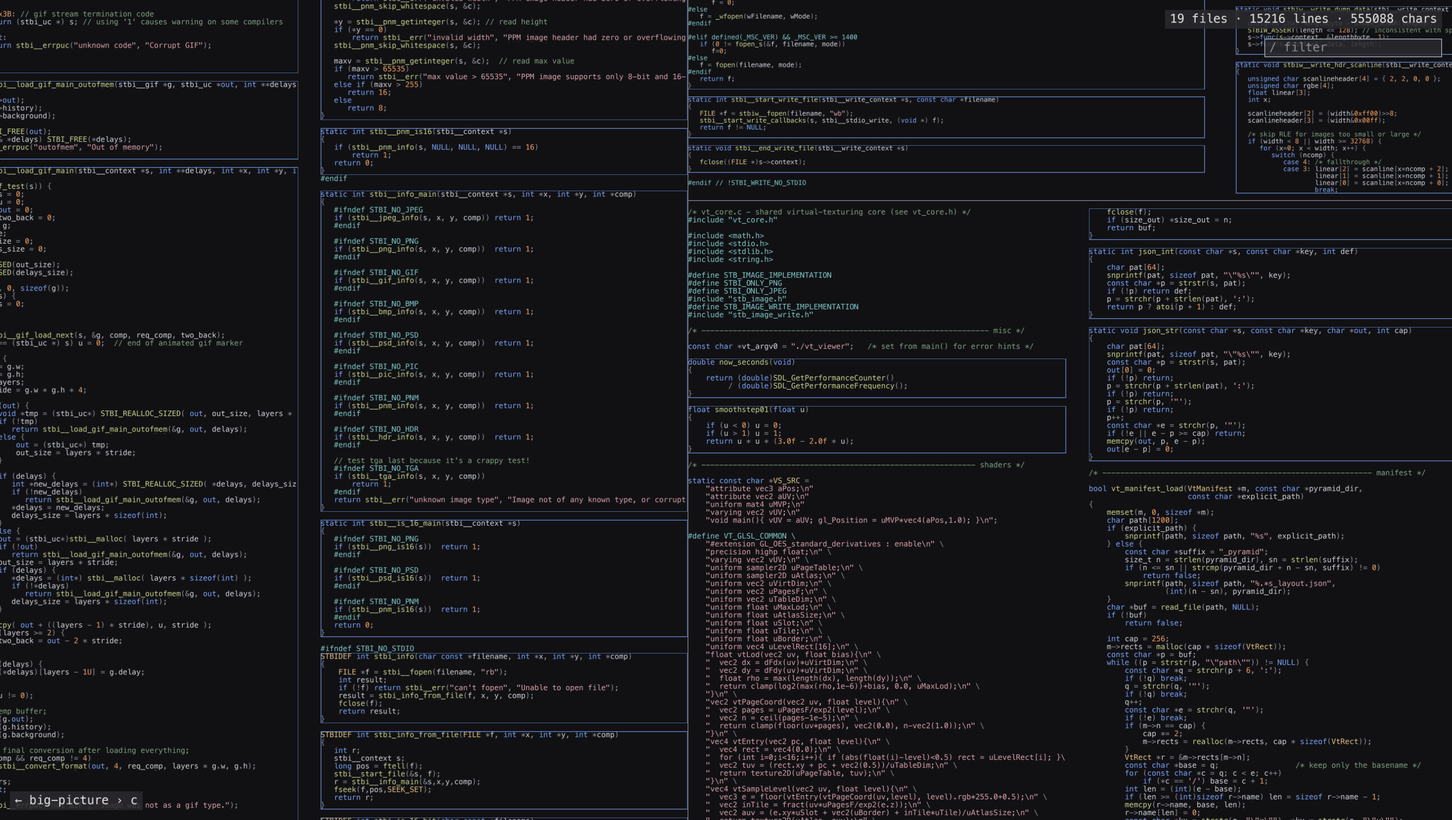
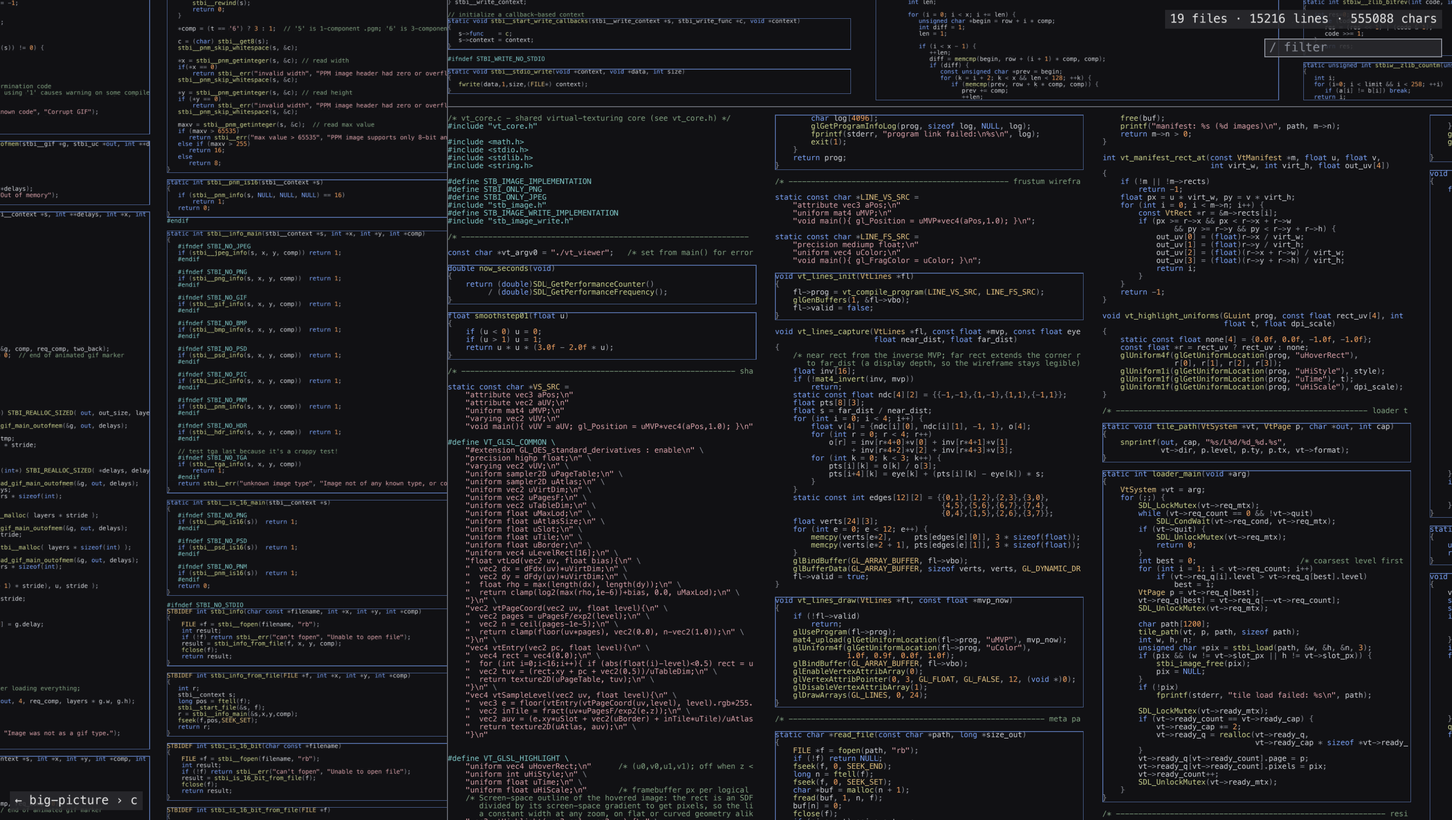
Phase 0: kind bands, code-only references, tokens as the area metric
The ladder gains its missing representation: below 3 px per line every item rectangle is drawn as a filled band in its item kind colour under the bars, so the fitted map shows the colour regions of the video and nothing flips at the 1 px cut; from 3 px the outlines take over (fills far, outlines near). Filter hits inside comments and strings are no longer references: Window on makepad-draw drops from 147 to 129. The treemap's default area metric is tokens, runs of one non-space kind restarted at each line, matching the video's toolbar. Shots regenerated; PARITY.md rows 8, 19 and 25 updated.

diff --git a/atlas_viewer.py b/atlas_viewer.py
@@ -224,15 +224,18 @@ def run_search(atlas, word):
         time.sleep(0)
     off = np.array(starts, np.int64)
     line = np.searchsorted(line_off_nl, off, side="right") - 1
-    file = atlas["line_file"][line].astype(np.int64)
     col = off - line_off_nl[line]
     chars = atlas["chars"]
     line_off = atlas["line_off"].astype(np.int64)
-    is_def = np.zeros(len(off), bool)
-    kinds = [""] * len(off)
+    # a mention inside a comment or a string is not a reference
+    code = ~np.isin(atlas["kinds"][line_off[line] + col], (4, 5))
+    line, col = line[code], col[code]
+    file = atlas["line_file"][line].astype(np.int64)
+    is_def = np.zeros(len(line), bool)
+    kinds = [""] * len(line)
     files = atlas["index"]["files"]
     regs = {}
-    for i in range(len(off)):
+    for i in range(len(line)):
         lang = files[file[i]]["lang"]
         r = regs.get(lang)
         if r is None:
@@ -1110,6 +1113,27 @@ class Viewer:
         inst[:, 8] = alpha
         return inst, n * cw
 
+    def band_instances(self):
+        """The kind bands: below 3 px per line the item rectangles of visible
+        files are filled bands in the item kind colour, under the sampled
+        bars and the line bars alike so nothing flips at the 1 px cut; from
+        3 px the outlines take over (fills far, outlines near)."""
+        a = self.a
+        m = (self.visible & (self.rung <= 1))[self.item_rect_file]
+        if not m.any():
+            return np.zeros((0, 10), np.float32)
+        rects = a["item_rect"][m]
+        kinds = a["item_kind"][a["item_rect_item"][m]]
+        inst = np.zeros((len(rects), 10), np.float32)
+        inst[:, :4] = rects
+        for k, c in ITEM_COLORS.items():
+            inst[kinds == k, 4:7] = c
+        inst[(kinds < 1) | (kinds > 5), 4:7] = ITEM_COLORS[5]
+        inst[:, 7] = 1.0
+        inst[:, 8] = 0.0
+        inst[:, 9] = 0.18
+        return inst
+
     def item_instances(self):
         a = self.a
         m = (self.visible & (self.rung >= 2))[self.item_rect_file]
@@ -1321,6 +1345,7 @@ class Viewer:
         glUseProgram(self.prog["file"])
         glUniform1i(self.uniform("file", "uRingOnly"), 0)
         self.draw_instanced("file", self.n_files)
+        self.draw_rects(self.band_instances())      # kind bands under the bars
         self.draw_visible_lines()
         self.draw_rects(self.item_instances())
         self.draw_rects(self.hit_instances())

diff --git a/atlas_layout.py b/atlas_layout.py
@@ -144,6 +144,20 @@ def file_columns(w, h, n, target, char_aspect):
     return chosen
 
 
+def file_tokens(kinds, line_off, file_line0):
+    """Tokens per file: runs of one non-space kind, restarted at every line
+    (lines are stored with no separator). The video's default area metric."""
+    kinds = kinds.astype(np.int16)
+    prev = np.concatenate(([0], kinds[:-1]))
+    start = (kinds != 0) & (prev != kinds)
+    lo = line_off[:-1].astype(np.int64)
+    lo = lo[lo < len(kinds)]
+    start[lo] |= kinds[lo] != 0
+    cum = np.concatenate(([0], np.cumsum(start)))
+    fo = line_off[file_line0].astype(np.int64)      # first byte of each file
+    return np.diff(cum[fo]).astype(np.float64)
+
+
 def layout_files(file_rect, file_line0, line_len, char_aspect):
     n_files = len(file_rect)
     pitch = np.zeros(n_files)
@@ -297,8 +311,8 @@ def main():
                                  formatter_class=argparse.RawDescriptionHelpFormatter)
     ap.add_argument("atlas", metavar="ATLAS_DIR", help="data/<name>_atlas with index.npz + index.json")
     ap.add_argument("--aspect", default="16:9", help="world aspect W:H (default 16:9)")
-    ap.add_argument("--metric", choices=["chars", "lines", "bytes"], default="chars",
-                    help="file size metric for the treemap (default chars)")
+    ap.add_argument("--metric", choices=["tokens", "chars", "lines", "bytes"], default="tokens",
+                    help="file size metric for the treemap (default tokens)")
     ap.add_argument("--char-aspect", type=float, default=None,
                     help="character advance / line pitch of the font (default: atlas_font.py's "
                          "metric for its default font, Menlo 0.569; 0.6 if that font is missing)")
@@ -321,7 +335,9 @@ def main():
 
     aspect = parse_aspect(args.aspect)
     world = np.array([WORLD_W, WORLD_W / aspect])
-    if args.metric == "chars":
+    if args.metric == "tokens":
+        metric = file_tokens(z["kinds"], z["line_off"], file_line0)
+    elif args.metric == "chars":
         metric = z["file_chars"].astype(np.float64)
     elif args.metric == "lines":
         metric = np.diff(file_line0).astype(np.float64)

diff --git a/docs/DESIGN.md b/docs/DESIGN.md
@@ -104,7 +104,7 @@ Use `--workers` (default half the cores) with a process pool over files; the tok
 
 World coordinates: the root rectangle is [0, W] by [0, H] with W = 1600 and H = 1600 / aspect, y down. Everything is float64 on the CPU and float32 on the GPU (see Precision).
 
-Squarified treemap (Bruls, Huizing, van Wijk) over the directory tree. A directory's weight is the sum of its files' metric plus its children's weights. Inside a directory rectangle, first inset by the directory padding, then lay out the children (files and subdirectories together, sorted by weight descending) with squarify. Padding is a fraction of the parent's shorter side: 1.5 percent, clamped to [0.05, 4] world units, and it is the same on all four sides. The padding region is what the viewer draws as the directory border, so its width in pixels grows with zoom exactly as the video shows.
+Squarified treemap (Bruls, Huizing, van Wijk) over the directory tree. A directory's weight is the sum of its files' metric plus its children's weights. The default metric is tokens (runs of one non-space kind, restarted at each line), as in the video's toolbar; chars, lines and bytes are the alternatives. Inside a directory rectangle, first inset by the directory padding, then lay out the children (files and subdirectories together, sorted by weight descending) with squarify. Padding is a fraction of the parent's shorter side: 1.5 percent, clamped to [0.05, 4] world units, and it is the same on all four sides. The padding region is what the viewer draws as the directory border, so its width in pixels grows with zoom exactly as the video shows.
 
 Files: a file's rectangle is split into k equal-width columns with a gap of 6 percent of the column width between columns. Each column holds `rows = ceil(n_lines / k)` lines at pitch `p = h_inner / rows` where h_inner is the rectangle height less a top and bottom margin of one pitch (so the first line does not touch the border). Choose k from 1 upward: the column's character capacity is `cap = floor(col_w / (p * A))` where A is the character advance divided by the line pitch of the font (about 0.6 for Menlo; take it from atlas_font.py's metrics, default 0.6). Pick the smallest k such that `cap >= target`, where `target = clamp(p90 of the file's line lengths, 24, 100)`, or the k that maximises cap if no k reaches the target; k is capped at 64. Lines longer than cap are clipped, not wrapped (wrapping is a later step; note it in the README). A file with zero lines gets k = 1, rows = 1.
 
@@ -189,8 +189,8 @@ In numpy over files: `ppl = file_pitch * zoom` (device pixels per line); `rung =
 
 | rung | ppl | what is drawn |
 |---|---|---|
-| 0 sampled bars | under 1 | the file background, and every step-th line (file-relative index `j` with `j mod step == 0`) as a grey bar exactly 1 device pixel tall from indent to len, so the density stays about one bar per pixel row: the circuit-board texture of the whole map |
-| 1 line bars | 1 to 3 | one grey bar per line from indent to len |
+| 0 sampled bars | under 1 | kind bands (below), and every step-th line (file-relative index `j` with `j mod step == 0`) as a grey bar exactly 1 device pixel tall from indent to len, so the density stays about one bar per pixel row: the circuit-board texture of the whole map |
+| 1 line bars | 1 to 3 | kind bands, and one grey bar per line from indent to len |
 | 2 tokens | 3 to 6 | one block per character in the kind colour, item outlines |
 | 3 text | 6 and up | glyphs from the atlas in the kind colour, item outlines | Compute the hovered file from the cursor (point in file rect; use a coarse uniform grid over the world built at start to keep this O(1)), and the hovered line and column from the file's layout (column c from x, row r from y, line j = c * rows + r, col from x within the column divided by p * A). Compute the crumb trail: the deepest directory whose rectangle contains the view centre and is at least 64 device pixels on its shorter side.
 
@@ -199,14 +199,14 @@ In numpy over files: `ppl = file_pitch * zoom` (device pixels per line); `rung =
 1. Directories: for every directory with depth ≥ 1 whose rectangle is visible, draw the outer rectangle filled with the hue at 55 percent alpha over the darker inner fill, so the padding ring reads as a coloured band; below 1 device pixel of padding, still draw a 1 pixel line in the hue. Use an instanced rectangle shader with the ring computed in the fragment shader from the world-space padding, with `fwidth` to guarantee the 1 pixel minimum.
 2. Files: instanced over all files, vertex shader culls invisible ones (degenerate quad). Fill: every rung draws the file background `#111114`; the hue lives only in the directory bands, so a file's colour never flips at a rung cut. Border: 1 device pixel in a light grey (`#8a8f9a` at 70 percent); hovered file: fill `#dfe3ec` at 55 percent over everything (the light bar in the overview); hit file: border becomes 2 pixels of `#e8d44d`; current result: 3 pixels `#e8d44d`; dimmed: fill darkened 50 percent.
 3. Lines: one instanced draw over all lines. Vertex shader: fetch line and file texels; if the line is outside the view, or the file is at rung 0 and the line's file-relative index is not a multiple of the file's step, emit a degenerate quad. Quad from (x, y) with width `len * p * A` (clipped to `cap * p * A`) and height p, or exactly 1 device pixel at rung 0. Pass to the fragment shader: the line's byte offset, indent, len, cap, p, the rung, and the unit uv. Fragment shader: `col = floor(uv.x * len_clipped)`; rungs 0 and 1: discard if col < indent, else output `#a4a8b0` at an alpha that ramps with pixels per line, `clamp(0.5 + 0.15 ppl, 0.55, 0.8)`, so only the sampling changes at the 1 px cut (rung 0 the sampled bar, rung 1 a grey bar from indent to len); rung 2: fetch the kind at byte_off + col, discard if space, output the kind colour (a block per character, which gives the token segments); rung 3: fetch the char and kind, sample the glyph atlas cell for the char at the in-cell uv, multiply the kind colour by the coverage. Kind colours (RGB): space none, ident `#cfd2d8`, keyword `#7aa2f7`, type `#e0c080`, string `#d7a0a8`, comment `#7f9f7f`, number `#f0a060`, punct `#8c909a`, macro `#7fc8c8`, call `#c8d08c`. When the file is dimmed, multiply by 0.45.
-4. Item outlines: for files at rung 2 or 3 that are visible, draw their item rectangles as 1.5 device pixel outlines in the item kind colour: function `#7aa2f7` at 60 percent, struct `#e0c080`, enum `#d7a0a8`, impl `#5fb7b7`, other `#8c909a`. Nested outlines are fine. Build the instance list on the CPU from the visible files each frame (numpy boolean index over item_rect_item's file).
+4. Kind bands and item outlines: for visible files at rung 0 or 1, every item rectangle is drawn before the lines as a filled band in its item kind colour at 18 percent alpha (the ladder's kind-bands representation: fills far, outlines near); for files at rung 2 or 3 that are visible, draw their item rectangles as 1.5 device pixel outlines in the item kind colour: function `#7aa2f7` at 60 percent, struct `#e0c080`, enum `#d7a0a8`, impl `#5fb7b7`, other `#8c909a`. Nested outlines are fine. Build the instance list on the CPU from the visible files each frame (numpy boolean index over item_rect_item's file).
 5. Hits: while a filter is active, every hit in a visible file at rung ≥ 2 draws a 2 pixel `#e8d44d` outline around its token rectangle (from the hit's column and length); the current result draws a filled `#e8d44d` at 25 percent as well.
 6. Directory labels: for visible directories with depth ≥ 1 whose shorter side is at least 48 device pixels, draw the label as a tag at the rectangle's top left, inset by the padding: 13 point text (26 device pixels on Retina) in `#e6e6e6` on a `#2a2a2e` box at 85 percent alpha. Labels never scale with zoom. Skip a label if it would cover more than 40 percent of its rectangle's width. Label chains: when a directory's inner rectangle is filled by exactly one child directory (the child covers at least 85 percent of it), the parent draws no tag and the innermost directory of the chain draws one tag joining the chain's names with ` · ` (`platform · src · os`, as the video's `git · tests`) at its own corner; the crumb trail is unaffected.
 7. UI: crumb trail bottom left ("← makepad › libs › rapier"), hover label next to the cursor (path, then `:line` and the enclosing item's `kind name` when the hovered file is at rung ≥ 2; at rung 3 also `· N hits` when a filter is active), and the right column: a status line with `files · lines · chars` of the corpus and, while a filter is active, `D definitions · R references · F files · i/N`, the filter box under it, and the results panel (see Filter). While the panel is open the column is its own strip beside the map (see Window and camera) and the status wraps on its ` · ` separators to the panel's width; with no panel the status line and the filter box sit in the top right corner over the map. Directory labels are clipped to the map viewport. All UI text uses the glyph atlas at fixed device pixel sizes through a screen-space text path (one instanced draw of per-character quads built on the CPU; a few thousand characters per frame at most).
 
 ### Filter and results
 
-Typing while the filter box is focused (click it, or press `/`) edits the filter text; `Backspace` deletes; `Escape` clears. The search runs when the text changes and has at least 2 characters: a case-sensitive whole-word substring search over `chars` (use `re.finditer` with `\b` on the bytes, in a thread; results replace the previous ones when done). Each hit is (file, line, col, len). Hits whose line matches a definition regex for the file's language (`fn|struct|enum|trait|impl|type|mod|def|class|function|interface|const|static` followed by the word) are definitions; the rest are references. The results panel lists definitions first, then references, each grouped by file path with the line number and the trimmed line text, definitions annotated with their kind. The panel is 360 device pixels wide (180 points) in its own column beside the map (the map viewport shrinks by the column while the panel is open), scrolls with the wheel when the cursor is over it, and highlights the current result.
+Typing while the filter box is focused (click it, or press `/`) edits the filter text; `Backspace` deletes; `Escape` clears. The search runs when the text changes and has at least 2 characters: a case-sensitive whole-word substring search over `chars` (use `re.finditer` with `\b` on the bytes, in a thread; results replace the previous ones when done). Each hit is (file, line, col, len); a mention inside a comment or a string is not a hit, so references are code only. Hits whose line matches a definition regex for the file's language (`fn|struct|enum|trait|impl|type|mod|def|class|function|interface|const|static` followed by the word) are definitions; the rest are references. The results panel lists definitions first, then references, each grouped by file path with the line number and the trimmed line text, definitions annotated with their kind. The panel is 360 device pixels wide (180 points) in its own column beside the map (the map viewport shrinks by the column while the panel is open), scrolls with the wheel when the cursor is over it, and highlights the current result.
 
 `Enter`, `Down` or `]` steps to the next result, `Up` or `[` to the previous, wrapping; stepping calls `fly_to` on the hit's line rectangle expanded to show about 40 lines and 100 columns (so the destination is the text rung). Clicking a result row does the same. Hit files get the yellow border immediately, and files without hits are dimmed, at every zoom.
 

diff --git a/docs/PARITY.md b/docs/PARITY.md
@@ -13,7 +13,7 @@ The plan for reaching everything the video and the makepad commit messages show,
 | 5 | Directory bands widen with zoom | done | |
 | 6 | Single-child chains collapse into one tag ("git · tests") | done | |
 | 7 | Ladder rung: tile under about 1 px per line | done (sampled bars) | |
-| 8 | Ladder rung: kind bands, items as filled bands by kind at a distance ("fills far, outlines near") | missing: outlines only from 3 px | 0 |
+| 8 | Ladder rung: kind bands, items as filled bands by kind at a distance ("fills far, outlines near") | done (bands below 3 px, outlines above) | |
 | 9 | Ladder rung: grey line bars 1 to 3 px | done | |
 | 10 | Ladder rung: token-coloured segments with item outlines 3 to 6 px | done | |
 | 11 | Ladder rung: text from 6 px, hard cuts, per-file rung within one frame | done | |
@@ -24,13 +24,13 @@ The plan for reaching everything the video and the makepad commit messages show,
 | 16 | Hover label: path, then line and enclosing item at the tokens rung and closer | done | |
 | 17 | Hover label at text rung: symbol with "N definitions · M references" | file hit count only | 1 |
 | 18 | Filter box: typing outlines every hit file in yellow at any zoom, dims the rest | done | |
-| 19 | Results: Definitions with line, text and kind; References grouped by file with context | done, but 12 percent of "references" are comment or string mentions; kinds are regex guesses | 0 (exclude non-code hits), 1 (resolver) |
+| 19 | Results: Definitions with line, text and kind; References grouped by file with context | done, code-only hits; kinds are regex guesses | 1 (resolver) |
 | 20 | Search summary "D definitions · R references · F files · i/N" | done | |
 | 21 | Step to a result: van Wijk zoom-out-and-in, hit outlined and filled, row highlighted | done | |
 | 22 | Inspector tab: entity details on click, coverage statistics of the index | missing | 1 |
 | 23 | Click selects, Shift-click toggles, Shift-drag marquees, selection lights its neighbourhood | missing | 4 |
 | 24 | Toolbar: lens group, projection group, metric buttons (Tokens, References), palette, legend toggle | missing | 2 |
-| 25 | Area metric switchable: Tokens (default), References | chars, lines, bytes; no tokens, no references | 2 (tokens), 1 then 2 (references) |
+| 25 | Area metric switchable: Tokens (default), References | tokens is the default; no references, no switch in the viewer | 1 then 2 |
 | 26 | Size lens in 2D, 2.5D and 3D; hard lens switch | missing | 2, 3 |
 | 27 | Alt-drag tilts; 3D extrudes files and directories by the height metric (References) with shaded walls in the hue; labels as billboards; the ladder still draws on slab tops | missing | 3 |
 | 28 | Layers lens: dependency ranks with SCC aggregates and rank labels | missing | 4 |
@@ -45,7 +45,7 @@ The plan for reaching everything the video and the makepad commit messages show,
 
 ## Phases
 
-**Phase 0, quick wins (half a session).** Close rows 8 and the first half of 19 without new dependencies: a kind-bands rung that draws item rectangles filled at low alpha in their kind colour from 1 px per line (outlines take over from 3 px, which is the "fills far, outlines near" of the commit message); references exclude hits whose character kind is comment or string, using the kinds texture already built. Add a Tokens metric to atlas_layout.py (runs of non-space kinds) so the default area metric matches the video's. Verify: makepad-draw at 2 px per line shows coloured bands; the `Window` filter drops from 148 to 130 references.
+**Phase 0, quick wins (half a session, done in commit after 41ed298).** Close rows 8 and the first half of 19 without new dependencies: a kind-bands rung that draws item rectangles filled at low alpha in their kind colour from 1 px per line (outlines take over from 3 px, which is the "fills far, outlines near" of the commit message); references exclude hits whose character kind is comment or string, using the kinds texture already built. Add a Tokens metric to atlas_layout.py (runs of non-space kinds) so the default area metric matches the video's. Verify: makepad-draw at 2 px per line shows coloured bands; the `Window` filter drops from 148 to 130 references.
 
 **Phase 1, resolver and Inspector (2 sessions).** Rows 17, 19, 22, 25. Parse with tree-sitter (one pip dependency plus the Rust, Python and C grammars); per file collect items with kinds and scopes, then resolve identifier uses: same scope, then the file, then `use` paths within the crate, then a unique global name; the rest are ambiguous or not found and counted as such. Output per-file definition and reference tables into the atlas and a per-file reference count (fan-in) as the References metric. The Inspector tab shows the selected or hovered entity with its definitions and references, and the index coverage (files, entities, references resolved, ambiguous, not found) in the style of Rik's panel. Parity means the same categories, not his numbers: his analyser is bigger and private. Verify: `Window` on makepad-draw lists the `pub type Window = XID` definition and code references only, grouped by file with kinds; hovering a symbol at text zoom shows its counts.
 

diff --git a/README.md b/README.md
@@ -88,10 +88,10 @@ The two glyph tiers at 120 pixels per line: the 64 pixel raster atlas magnified 
 The contract that the code was built against is [docs/DESIGN.md](docs/DESIGN.md), including the deviations found while building. The short version:
 
 - **Index.** `atlas_index.py` walks the tree (honouring `.gitignore`, skipping binaries), expands tabs, maps every character to one column, and runs a small regex tokenizer per language family (Rust, C-like, Python, shell, plain) that assigns one of ten kinds to every character. Items (functions, structs, enums, impls, modules) come from regexes with brace or indentation matching. Output is a handful of numpy arrays: the characters, their kinds, line offsets, file ranges, item ranges.
-- **Layout.** `atlas_layout.py` is a squarified treemap over the directory tree with padding per level that the viewer draws as the directory band, so the bands widen as you zoom. Area is by non-space characters. Each file is wrapped into as many equal columns as keep about a 90th-percentile line width readable, at a pitch that fits its lines; lines longer than a column are clipped, not wrapped. A preview PNG and `tests/check_layout.py` check the invariants.
-- **The ladder.** Per frame the viewer computes device pixels per line for every file and picks a rung: under 1, sampled one-pixel bars; 1 to 3, one grey bar per line from indent to length; 3 to 6, one block per character in its kind colour, plus item outlines; 6 and up, glyphs. The switches are hard cuts, as in the video. Everything is resident: characters and kinds as 8-bit textures, lines and files as float and integer textures, one instanced quad per line drawn per run of visible files, the border ring drawn again after the text.
+- **Layout.** `atlas_layout.py` is a squarified treemap over the directory tree with padding per level that the viewer draws as the directory band, so the bands widen as you zoom. Area is by tokens, as in the video's toolbar (characters, lines or bytes on request). Each file is wrapped into as many equal columns as keep about a 90th-percentile line width readable, at a pitch that fits its lines; lines longer than a column are clipped, not wrapped. A preview PNG and `tests/check_layout.py` check the invariants.
+- **The ladder.** Per frame the viewer computes device pixels per line for every file and picks a rung: under 1, sampled one-pixel bars; 1 to 3, one grey bar per line from indent to length; 3 to 6, one block per character in its kind colour, plus item outlines; 6 and up, glyphs. Below 3 px the items are also drawn as filled bands in their kind colour under the bars, Rik's kind-bands representation, and from 3 px the outlines take over. The switches are hard cuts, as in the video. Everything is resident: characters and kinds as 8-bit textures, lines and files as float and integer textures, one instanced quad per line drawn per run of visible files, the border ring drawn again after the text.
 - **Glyphs.** `atlas_font.py` rasterises the 95 printable ASCII glyphs of one monospace face into a mipmapped atlas that also draws the UI. `vt_glyphs.py` is the port of Dobbie's vector textures: quadratic outlines from fontTools, diced into a grid of curve lists, ray-cast per pixel in `shaders/vt_glyph.glsl`; its test measures a mean coverage error of 0.010 against Pillow at 96 pixels.
-- **Filter.** A whole-word regex over the corpus in a thread, chunked so the frame loop keeps running. Definitions are hits whose line matches a definition keyword for the language; there is no resolver, so a filter for `Window` in makepad finds 1 definition and 147 references where Rik's analyser finds 119 and 1472.
+- **Filter.** A whole-word regex over the corpus in a thread, chunked so the frame loop keeps running; mentions inside comments and strings are not hits. Definitions are hits whose line matches a definition keyword for the language; there is no resolver, so a filter for `Window` in makepad finds 1 definition and 129 references where Rik's analyser finds 119 and 1472.
 - **Fly-to** is van Wijk and Nuij's smooth zoom-and-pan, which zooms out and back in between distant places.
 
 Measured on an M4 MacBook at a 2940 by 1658 framebuffer, `--frames 300 --stats` over the scripted zoom from fit to text: big-picture 1.2 ms mean and 3.4 ms 99th percentile; makepad-draw 1.6 and 4.4 ms; the full makepad tree 4.5 and 23.7 ms, the tail being the fitted view where all 3.67 million lines are visible, and 1.3 ms once zoomed to text.
